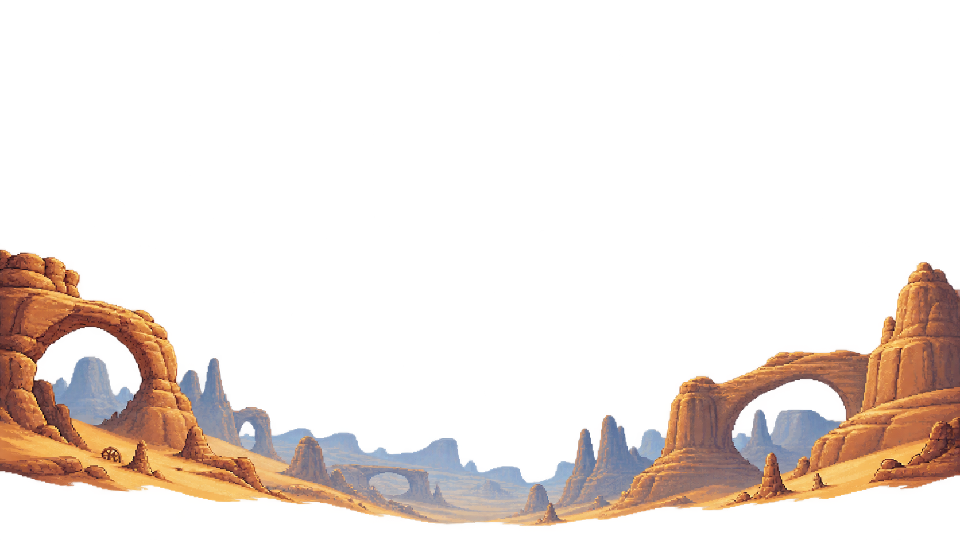
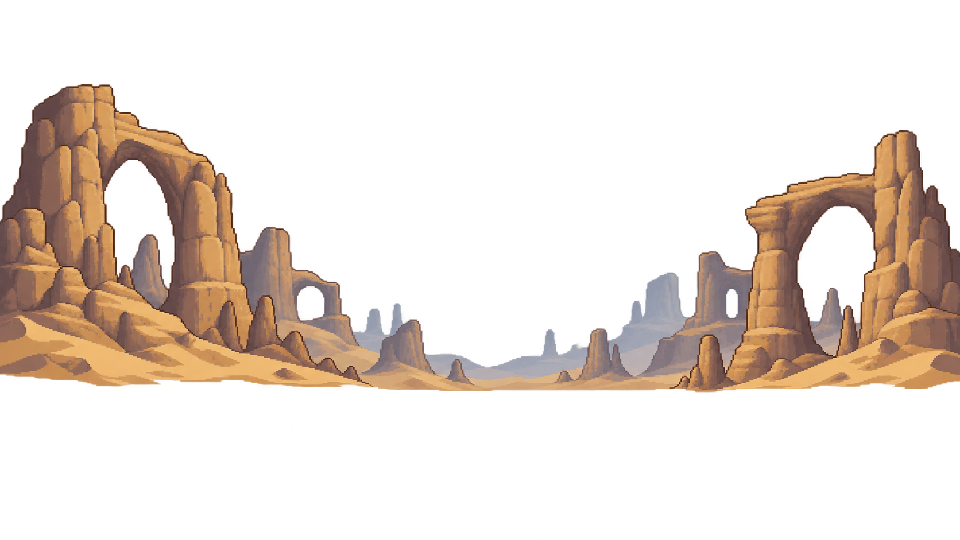
art: replace dune pass cliff layers with clean alpha

diff --git a/art-source/expansion-sands/dune-pass/environment/prompts.md b/art-source/expansion-sands/dune-pass/environment/prompts.md
@@ -48,3 +48,14 @@ Materials/textures: Layered eroded sandstone and rounded wind-carved edges; cris
 Constraints: True transparent alpha PNG; only side-framing rock fragments and sparse outer-corner scrub are opaque. No sky fill, no black background, no continuous ground plane. No characters, enemies, interface, text, logos, map labels, frame or watermark.
 Avoid: Blocking the center, details on the lower ground line, close foreground rocks across the route, large relics, photorealism, repeating tile pattern.
 ```
+## Replacement Far v2 (current runtime)
+
+Built with the built-in ImageGen tool, transparent background enabled, and no reference image. Raw output is preserved as env-sand-dune-far-generated-v2.png.
+
+Create a clean environment cutout for a side-scrolling pixel-art fantasy game, wide 16:9, FAR layer for Sand Dune Pass. Muted tan, ochre, umber and pale blue-gray distance under neutral diffuse evening light. Distant arched sandstone buttes frame a wide clear middle, with layered smaller mesas receding toward the horizon. Keep the rock forms flat and crisply shaded in low-resolution pixels with a thin hard dark-brown contour. Transparent empty space beyond the rock silhouettes and through every natural arch opening; transparent means truly empty alpha, never black fill. No rim lighting, no red/pink/cyan fringe pixels, no glow, bloom, lens effects, or color spill beyond the contour. Sparse background relics only. Keep the central gameplay area wide and readable. No characters, enemies, foreground floor, interface, text, labels, logos, or frame.
+
+## Replacement Mid v2 (current runtime)
+
+Built with the built-in ImageGen tool, transparent background enabled, and no reference image. Raw output is preserved as env-sand-dune-mid-generated-v2.png.
+
+Create a clean foreground environment cutout for a side-scrolling pixel-art fantasy game, wide 16:9, MID layer for Sand Dune Pass. Sparse canyon walls only at the left and right edges framing a very wide clear center, with slightly distant pale blue-gray gaps beyond the rock. Muted tan, ochre, umber and pale blue-gray palette under neutral diffuse evening light. Flat, crisp, low-resolution pixel-art sandstone slabs and ledges with sparse tiny tufts of dry grass. Thin hard dark-brown contour. Transparent empty space beyond every rock silhouette and throughout the open middle; transparent means truly empty alpha, never black fill. No rim lighting, no red/pink/cyan fringe pixels, no glow, bloom, lens effects, or color spill beyond the contour. Keep the lower center open for gameplay. No characters, enemies, sky, background fill, interface, text, labels, logos, or frame.

diff --git a/art-source/expansion-sands/dune-pass/environment/source-log.md b/art-source/expansion-sands/dune-pass/environment/source-log.md
@@ -14,3 +14,17 @@ ImageGen source locations before archival:
 - Sky: `C:\Users\Tommy\.codex\generated_images\01a16b8f-eb9d-7842-9898-e6b03644678c\exec-0aad88a4-1119-48ce-a16e-36153559c71c.png`
 - Far: `C:\Users\Tommy\.codex\generated_images\01a16b8f-eb9d-7842-9898-e6b03644678c\exec-3388b298-960d-472e-bfa5-7b2028808453.png`
 - Mid: `C:\Users\Tommy\.codex\generated_images\01a16b8f-eb9d-7842-9898-e6b03644678c\exec-bbd5690d-e893-4f3c-a375-1a6aaeba2d3a.png`
+## Clean replacement far/mid v2 (current runtime)
+
+The initial far/mid runtime exports were rejected in integration review for saturated colored pixels around the alpha boundary. Their v1 raw sources remain preserved above. Fresh replacement layers were generated with the built-in ImageGen tool and no reference image; they replace only the far and mid runtime files. The accepted sky and guide are unchanged. The replacement sources were resized to 960x540 with nearest-neighbor sampling; RGBA alpha was preserved without thresholding or pixel decontamination.
+
+| Layer | Preserved replacement source | Runtime image | Source format | Runtime format | Runtime SHA-256 |
+| --- | --- | --- | --- | --- | --- |
+| Far v2 | env-sand-dune-far-generated-v2.png | public/assets/environment/env-sand-dune-far-v1.png | 1672x941 RGBA | 960x540 RGBA, alpha 0..255 | 58037fa139ed5f04cb1ce4c1044cb998eecd9a44b48ad91702b7b9d89915b213 |
+| Mid v2 | env-sand-dune-mid-generated-v2.png | public/assets/environment/env-sand-dune-mid-v1.png | 1672x941 RGBA | 960x540 RGBA, alpha 0..255 | edd6c0981e78eef3671f91d9eebeadaa053ebdb20c487120f5aa307e0983bcf3 |
+
+Replacement outputs were inspected at 960x540, composited over the accepted sky and on light and dark solid backgrounds. The target-scale silhouettes read with dark-brown contours and no visible saturated fringe. Exact generation prompts are recorded in prompts.md.
+
+ImageGen replacement source locations before archival:
+- Far v2: C:\Users\Tommy\.codex\generated_images\01a16b8f-eb9d-7842-9898-e6b03644678c\exec-a74fdc4e-ef78-4fee-92e6-9da20d4f7e6e.png
+- Mid v2: C:\Users\Tommy\.codex\generated_images\01a16b8f-eb9d-7842-9898-e6b03644678c\exec-e5b0bea4-05c7-418d-9711-2938e642e368.png
